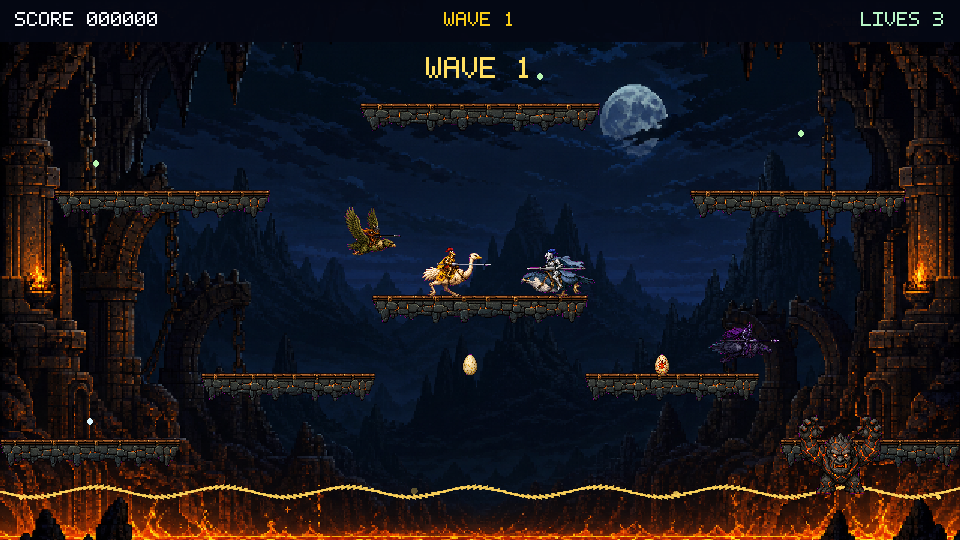
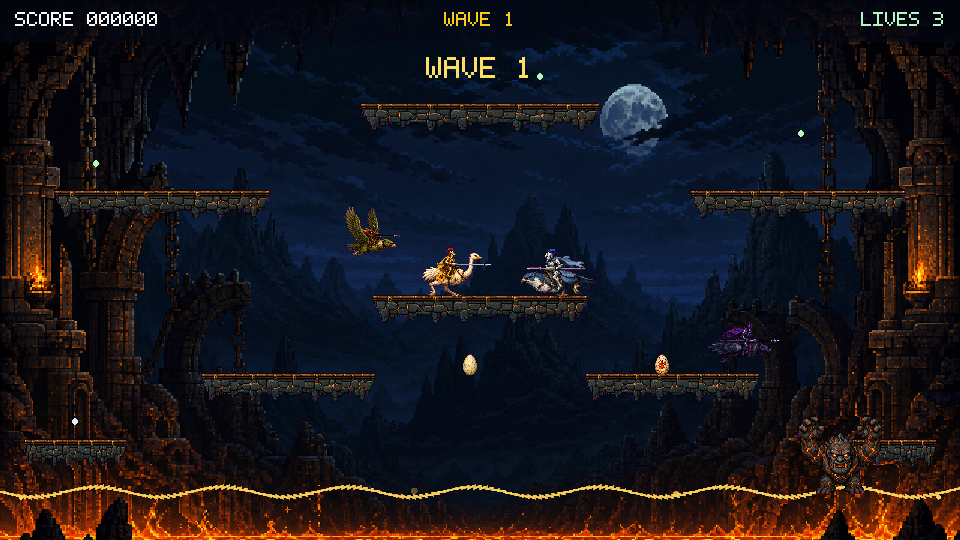
Refine wave starts and game-over flow

Changed region(s): [[0.0, 0.8, 0.1875, 0.8593], [0.9062, 0.8, 1.0, 0.8593], [0.8125, 0.8, 0.8438, 0.8593]]

diff --git a/src/game.c b/src/game.c
@@ -41,7 +41,8 @@ static void set_message(const char *text, float seconds)
 static void init_platforms(void)
 {
     const Platform p[PLATFORM_COUNT] = {
-        {   0, 147, 60, 5 }, { 260, 147, 60, 5 },
+        /* Compact player pads: P1 uses the left; the right is reserved for P2. */
+        {   8, 147, 34, 5 }, { 278, 147, 34, 5 },
         {  67, 125, 58, 4 }, { 195, 125, 58, 4 },
         { 124,  99, 72, 4 },
         {  18,  64, 72, 4 }, { 230,  64, 72, 4 },
@@ -71,9 +72,9 @@ static void burst(float x, float y, uint32_t color, int count, float speed)
     }
 }
 
-static void spawn_player(void)
+static void spawn_player_at(int platform_index)
 {
-    Platform *p = &G.platforms[(G.lives & 1) ? 0 : 1];
+    Platform *p = &G.platforms[platform_index];
     G.player = (Rider){0};
     G.player.x = p->x + p->w * 0.5f - RIDER_W * 0.5f;
     G.player.y = p->y - RIDER_H;
@@ -84,8 +85,15 @@ static void spawn_player(void)
     G.player.spawn_timer = 0.85f;
     G.player.invuln = 1.55f;
     G.respawn_timer = 0;
+    G.left_input = G.right_input = 0;
+    G.step_sound_timer = 0;
     burst(G.player.x + RIDER_W * 0.5f, G.player.y + RIDER_H * 0.5f,
           0xd9f6ff, 18, 28.0f);
+}
+
+static void respawn_player(void)
+{
+    spawn_player_at(0);
 }
 
 static Enemy *spawn_enemy(int type, float x, float y)
@@ -151,6 +159,8 @@ static void begin_wave(void)
         { 3, 0, 0 }, { 4, 1, 0 }, { 3, 2, 0 }, { 2, 3, 1 }, { 2, 4, 2 },
     };
     G.wave++;
+    /* Player 1 owns the left pad; the matching right pad is reserved for P2. */
+    spawn_player_at(0);
     int counts[EN_TYPE_COUNT];
     if (G.wave <= 5) {
         memcpy(counts, waves[G.wave - 1], sizeof counts);
@@ -208,7 +218,6 @@ void game_start(void)
     G.state = GS_PLAYING;
     G.lava_troll_timer = 7.0f + game_randf() * 7.0f;
     init_platforms();
-    spawn_player();
     begin_wave();
 }
 
@@ -289,6 +298,7 @@ static void kill_player(void)
     sound_play(SFX_HURT, 0.9f, 1.0f);
     if (G.lives <= 0) {
         G.state = GS_GAMEOVER;
+        G.gameover_choice = GAMEOVER_RESTART;
         if (G.score > G.high_score) G.high_score = G.score;
         set_message("GAME OVER", 99.0f);
     } else {
@@ -320,7 +330,7 @@ static void update_player(void)
 {
     Rider *p = &G.player;
     if (!p->active) {
-        if (G.lives > 0 && (G.respawn_timer -= TICK_DT) <= 0) spawn_player();
+        if (G.lives > 0 && (G.respawn_timer -= TICK_DT) <= 0) respawn_player();
         return;
     }
     G.left_input = fmaxf(0, G.left_input - TICK_DT);
@@ -559,7 +569,30 @@ void game_handle_key(int key)
         return;
     }
     if (G.state == GS_GAMEOVER) {
-        if (key == KEY_ENTER || key == ' ' || key == 'r' || key == 'R') game_start();
+        int previous = G.gameover_choice;
+        if (key == KEY_UP || key == KEY_LEFT || key == 'w' || key == 'W' ||
+            key == 'a' || key == 'A') {
+            G.gameover_choice = GAMEOVER_RESTART;
+        } else if (key == KEY_DOWN || key == KEY_RIGHT || key == 's' || key == 'S' ||
+                   key == 'd' || key == 'D') {
+            G.gameover_choice = GAMEOVER_MENU;
+        } else if (key == KEY_ENTER) {
+            sound_play(SFX_MENU, 0.7f, 1.25f);
+            if (G.gameover_choice == GAMEOVER_RESTART) {
+                game_start();
+            } else {
+                G.state = GS_TITLE;
+                G.player.active = false;
+                memset(G.enemies, 0, sizeof G.enemies);
+                memset(G.eggs, 0, sizeof G.eggs);
+                memset(G.particles, 0, sizeof G.particles);
+                G.left_input = G.right_input = 0;
+                G.wave_timer = G.respawn_timer = 0;
+                set_message("", 0);
+            }
+            return;
+        }
+        if (G.gameover_choice != previous) sound_play(SFX_MENU, 0.5f, 1.0f);
         return;
     }
     if (key == 'p' || key == 'P' || key == KEY_ESC) {
@@ -619,6 +652,8 @@ bool game_validate(char *error, size_t error_len)
 {
 #define BAD(...) do { snprintf(error, error_len, __VA_ARGS__); return false; } while (0)
     if (G.wave < 0 || G.lives < 0 || G.lives > 3) BAD("bad counters: wave=%d lives=%d", G.wave, G.lives);
+    if (G.gameover_choice < 0 || G.gameover_choice >= GAMEOVER_OPTION_COUNT)
+        BAD("bad game-over choice: %d", G.gameover_choice);
     if (G.score < 0 || G.high_score < G.score) BAD("bad score: %d high=%d", G.score, G.high_score);
     if (game_active_enemies() > MAX_ENEMIES || game_active_eggs() > MAX_EGGS) BAD("object count overflow");
     if (G.player.active && (!isfinite(G.player.x) || !isfinite(G.player.y) ||

diff --git a/src/main.c b/src/main.c
@@ -172,6 +172,10 @@ static int rules_test(void)
     game_init(960, 540, 123);
     G.headless = true;
     game_start();
+    EXPECT(G.wave == 1 && G.player.active && G.player.on_platform &&
+           G.player.x < 42 && G.player.dir == 1 &&
+           G.platforms[0].w < 40 && G.platforms[1].w < 40,
+           "first wave starts player one on the compact left pad");
 
     memset(G.enemies, 0, sizeof G.enemies);
     memset(G.eggs, 0, sizeof G.eggs);
@@ -221,6 +225,10 @@ static int rules_test(void)
     game_tick();
     EXPECT(!G.player.active && G.lives == 2,
            "higher enemy costs exactly one life before respawn");
+    for (int i = 0; i < 64; i++) game_tick();
+    EXPECT(G.player.active && G.player.on_platform && G.player.x < 42 &&
+           G.player.dir == 1,
+           "player one respawns on the left pad after losing a life");
 
     memset(G.enemies, 0, sizeof G.enemies);
     memset(G.eggs, 0, sizeof G.eggs);
@@ -231,6 +239,11 @@ static int rules_test(void)
     game_tick();
     EXPECT(G.state == GS_WAVE && bonus == 1100 && G.score == bonus,
            "empty battlefield awards one wave bonus and enters intermission");
+    G.wave_timer = 0;
+    game_tick();
+    EXPECT(G.state == GS_PLAYING && G.wave == 2 && G.player.active &&
+           G.player.on_platform && G.player.x < 42 && G.player.dir == 1,
+           "every new wave resets player one on the left pad");
 
     memset(G.enemies, 0, sizeof G.enemies);
     memset(G.eggs, 0, sizeof G.eggs);
@@ -263,6 +276,22 @@ static int rules_test(void)
     game_tick();
     EXPECT(G.state == GS_GAMEOVER && G.lives == 0 && !G.player.active,
            "losing the final life enters the dedicated game-over state");
+    game_handle_key(' ');
+    game_handle_key('r');
+    EXPECT(G.state == GS_GAMEOVER,
+           "game over ignores restart shortcuts and waits for Enter");
+    game_handle_key(KEY_ENTER);
+    EXPECT(G.state == GS_PLAYING && G.wave == 1 && G.lives == 3,
+           "Enter confirms the default ride-again option");
+    G.state = GS_GAMEOVER;
+    G.gameover_choice = GAMEOVER_RESTART;
+    game_handle_key(KEY_DOWN);
+    game_handle_key(' ');
+    EXPECT(G.state == GS_GAMEOVER && G.gameover_choice == GAMEOVER_MENU,
+           "direction keys select main menu without leaving game over");
+    game_handle_key(KEY_ENTER);
+    EXPECT(G.state == GS_TITLE,
+           "Enter confirms main menu and returns to the title screen");
 
     char error[160];
     EXPECT(game_validate(error, sizeof error), "game invariants hold after rule fixtures");

diff --git a/src/render.c b/src/render.c
@@ -398,7 +398,7 @@ static void draw_particles(void)
 
 static void draw_hud(void)
 {
-    rect_l(0, 0, LOGICAL_W, 14, 0x050814, .94f);
+    rect_l(0, 0, LOGICAL_W, 14, 0x050814, .64f);
     line_l(0, 14, 320, 14, .45f, 0x59657e, .75f);
     char b[64];
     snprintf(b, sizeof b, "SCORE %06d", G.score);
@@ -470,14 +470,20 @@ static void draw_overlay(void)
         text_center_l(160, 98, "P OR ESC TO RESUME", 0xcbd5e1, 1, .62f);
     } else if (G.state == GS_GAMEOVER) {
         rect_l(0, 0, 320, 180, 0x280506, .18f);
-        panel(74, 42, 172, 72);
-        text_center_l(160, 51, "GAME OVER", 0xff625b, 1, 1.55f);
+        panel(74, 33, 172, 114);
+        text_center_l(160, 42, "GAME OVER", 0xff625b, 1, 1.55f);
         char b[64];
         snprintf(b, sizeof b, "SCORE %06d", G.score);
-        text_center_l(160, 77, b, 0xf8fafc, 1, .64f);
+        text_center_l(160, 68, b, 0xf8fafc, 1, .64f);
         snprintf(b, sizeof b, "BEST  %06d", G.high_score);
-        text_center_l(160, 89, b, 0xcbd5e1, 1, .60f);
-        text_center_l(160, 103, "ENTER TO RIDE AGAIN", 0xffdd67, 1, .70f);
+        text_center_l(160, 80, b, 0xcbd5e1, 1, .60f);
+        bool restart = G.gameover_choice == GAMEOVER_RESTART;
+        text_center_l(160, 99, restart ? "> RIDE AGAIN <" : "RIDE AGAIN",
+                      restart ? 0xffdd67 : 0x94a3b8, 1, .70f);
+        text_center_l(160, 114, restart ? "MAIN MENU" : "> MAIN MENU <",
+                      restart ? 0x94a3b8 : 0xffdd67, 1, .70f);
+        text_center_l(160, 135, "ARROWS CHOOSE   ENTER SELECT",
+                      0x94a3b8, 1, .46f);
     }
 }
 

diff --git a/src/joustix.h b/src/joustix.h
@@ -22,6 +22,7 @@ enum {
 
 enum { GS_TITLE, GS_PLAYING, GS_WAVE, GS_PAUSED, GS_GAMEOVER };
 enum { EN_BOUNDER, EN_HUNTER, EN_SHADOW, EN_TYPE_COUNT };
+enum { GAMEOVER_RESTART, GAMEOVER_MENU, GAMEOVER_OPTION_COUNT };
 enum {
     SFX_MENU, SFX_FLAP, SFX_STEP, SFX_JOUST, SFX_HURT, SFX_EGG,
     SFX_HATCH, SFX_WAVE, SFX_LAVA, SFX_COUNT
@@ -78,7 +79,7 @@ typedef struct {
     Platform platforms[PLATFORM_COUNT];
 
     int wave, score, high_score, lives;
-    int difficulty;
+    int difficulty, gameover_choice;
     float wave_timer, respawn_timer, left_input, right_input;
     float shake, flash, message_timer, lava_troll_timer, lava_troll_phase;
     float step_sound_timer;

diff --git a/README.md b/README.md
@@ -59,7 +59,8 @@ runs silently.
 | Up / W / Space | Flap |
 | P / Esc | Pause / resume |
 | M | Toggle sound |
-| Enter | Start, continue, or restart |
+| Arrow keys / W/S/A/D (menus) | Change the selected option |
+| Enter | Start or confirm the selected option |
 | Q | Quit |
 
 The terminal delivers key-repeat events rather than key-up events. Joustix uses